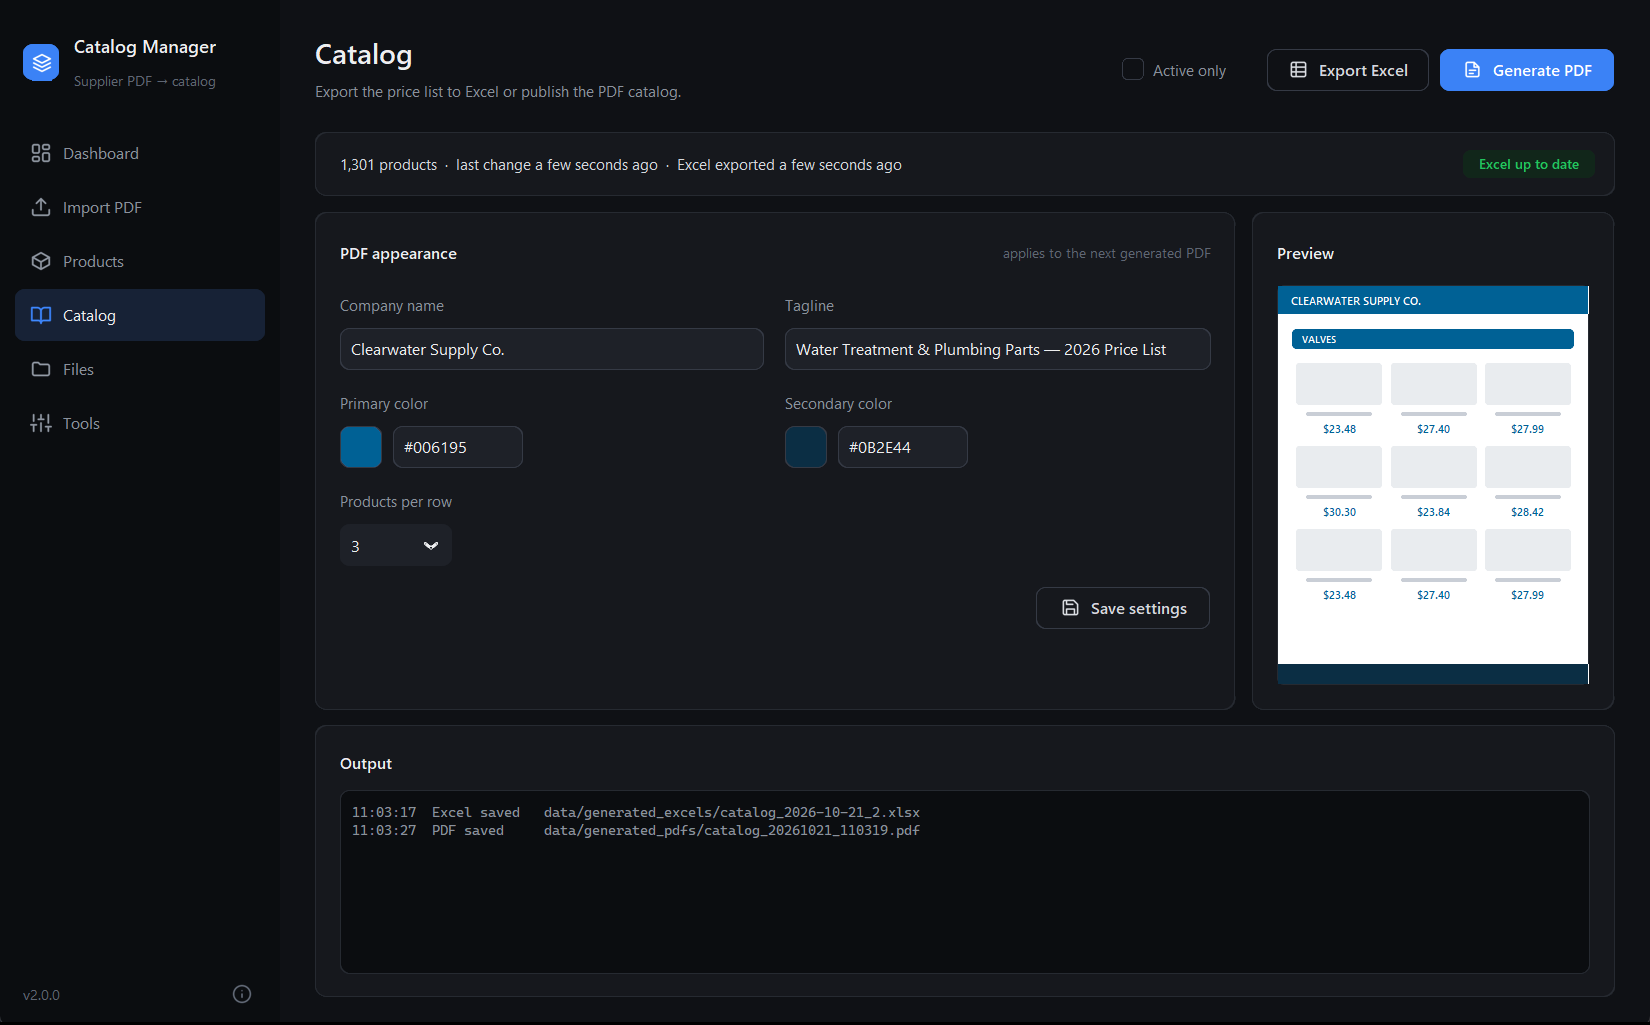
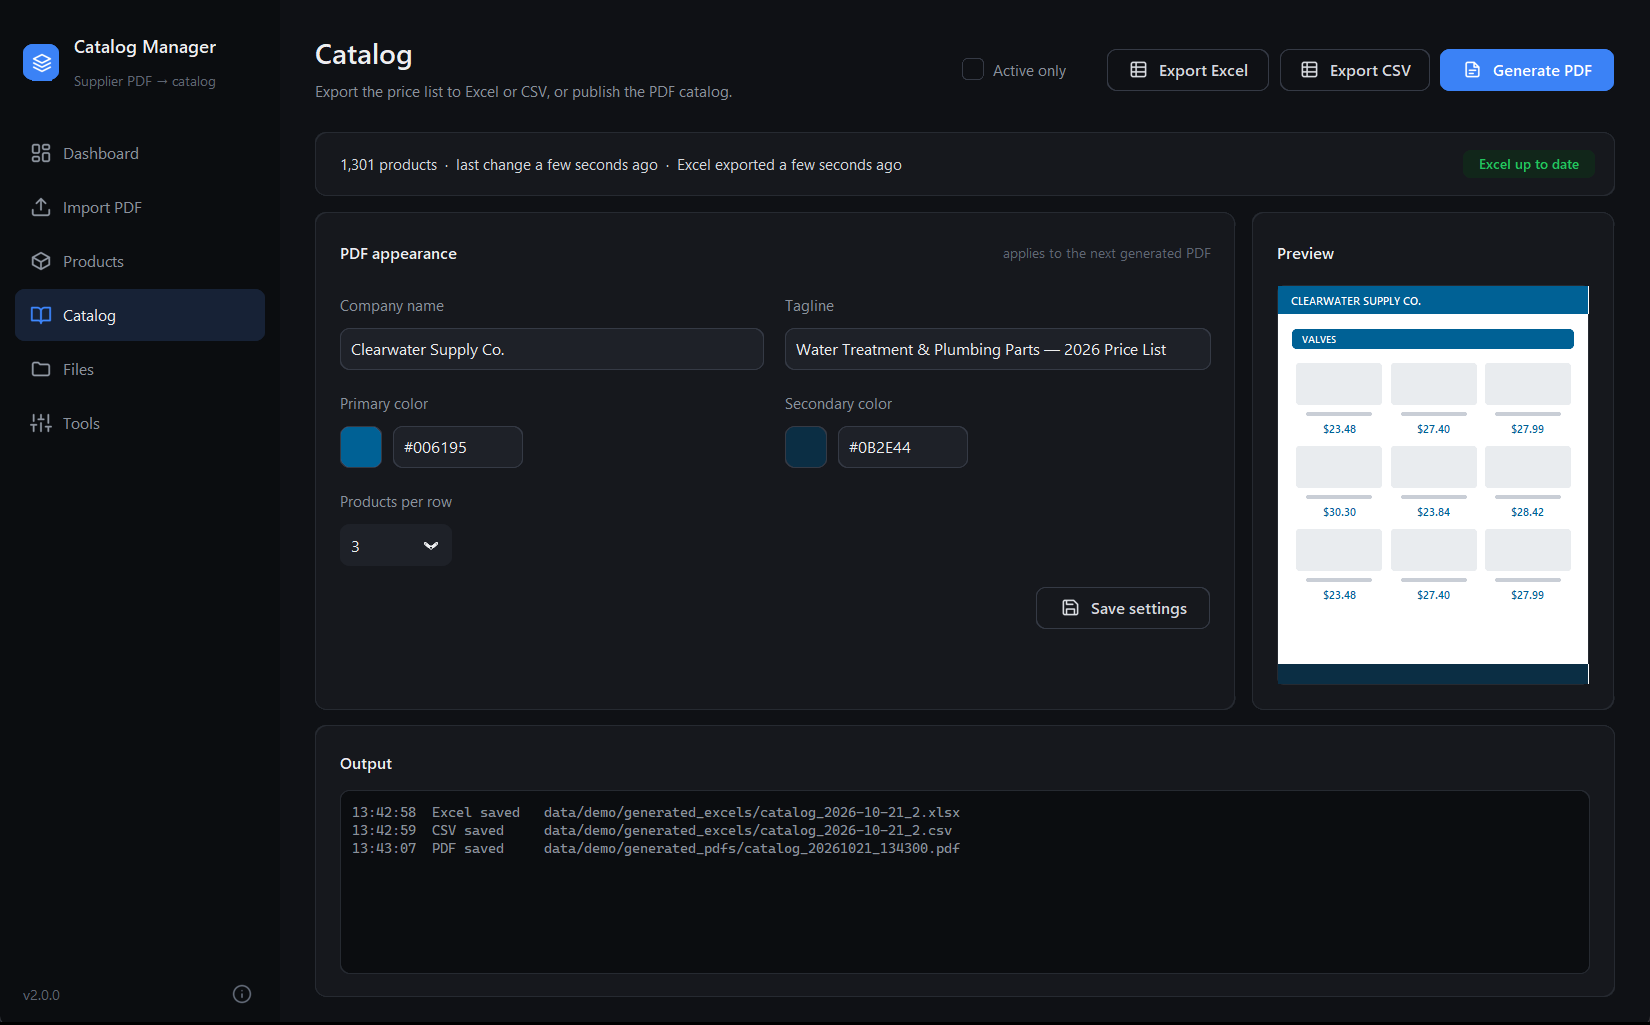
docs: re-record demo GIF and screenshots with CSV export
- New demo GIF and app screenshots showing the Export CSV step
- Add the Excel export screenshot (US formatting, cropped below the banner)
- Log CSV exports as their own activity kind so the dashboard no longer
  merges them with Excel exports
- README: CSV in the hero caption, Excel export section, 3-column grid
  wording and import timing

diff --git a/app/core/app_controller.py b/app/core/app_controller.py
@@ -122,7 +122,7 @@ class AppController:
         except Exception:
             n = 0
         self.db.log_activity(
-            kind="excel",
+            kind="csv",
             summary=f"Exported CSV · {n:,} products" + (" (active only)" if active_only else ""),
             count=n,
             metadata={"file": path.name},

diff --git a/app/ui/components/dashboard_frame.py b/app/ui/components/dashboard_frame.py
@@ -68,6 +68,7 @@ ACTIVITY_ICON: dict[str, str] = {
     "import":       "upload",
     "edit_batch":   "edit",
     "excel":        "sheet",
+    "csv":          "sheet",
     "pdf":          "file_text",
     "margin_apply": "percent",
 }

diff --git a/README.md b/README.md
@@ -12,8 +12,8 @@ A production-grade Python desktop application built for a wholesale distribution
 ![Demo — importing a supplier PDF and populating the catalog](docs/screenshots/00_demo.gif)
 
 > End-to-end flow on a 44-page US wholesale price list: 1,301 products and
-> their photos imported in 3.5 s, priced with a 30% margin, and published as
-> an Excel price list plus a 129-page branded PDF catalog.
+> their photos imported in under 4 seconds, priced with a 30% margin, and
+> published as an Excel price list, a CSV and a 129-page branded PDF catalog.
 
 ---
 
@@ -107,16 +107,25 @@ It is currently deployed in production for an Argentinean wholesale business and
 ### Catalog generation
 ![Catalog](docs/screenshots/03_catalog.png)
 
-> The status badge tracks Excel/PDF staleness against the database. Company
-> name, tagline, colors and product-grid density are configurable, with a live
-> preview of the page layout.
+> Export the price list to Excel or CSV, or publish the PDF catalog. The status
+> badge tracks Excel staleness against the database. Company name, tagline,
+> colors and product-grid density are configurable, with a live preview of the
+> page layout.
 
 ### Generated PDF output
 ![PDF Output](docs/screenshots/04_pdf_output.png)
 
-> A page from the generated 129-page catalog: branded header, 3×3 product grid
-> with photos, SKUs, brands, descriptions and final prices in USD. Categories
-> become section dividers across pages. The reseller name is fictitious.
+> A page from the generated 129-page catalog: branded header, 3-column product
+> grid with photos, SKUs, brands, descriptions and final prices in USD.
+> Categories become section dividers across pages. The reseller name is
+> fictitious.
+
+### Excel export
+![Excel export](docs/screenshots/06_excel_export.png)
+
+> The Products sheet: cost, margin, tax and final price per SKU, with filters
+> on every column. SKUs are kept as text so leading zeros survive. The same
+> columns are available as a plain CSV.
 
 ---
 
@@ -316,7 +325,7 @@ Reference numbers on two real supplier PDFs (Intel i5, SSD):
 
 | Stage | Result |
 |-------|--------|
-| Full import (detection, extraction, photos, pricing, save) | 3.5 s |
+| Full import (detection, extraction, photos, pricing, save) | 2–4 s |
 | Products matched to a photo | 1,296 of 1,301 (99.6%) |
 | Branded PDF catalog | 129 pages, ~10 s |
 
